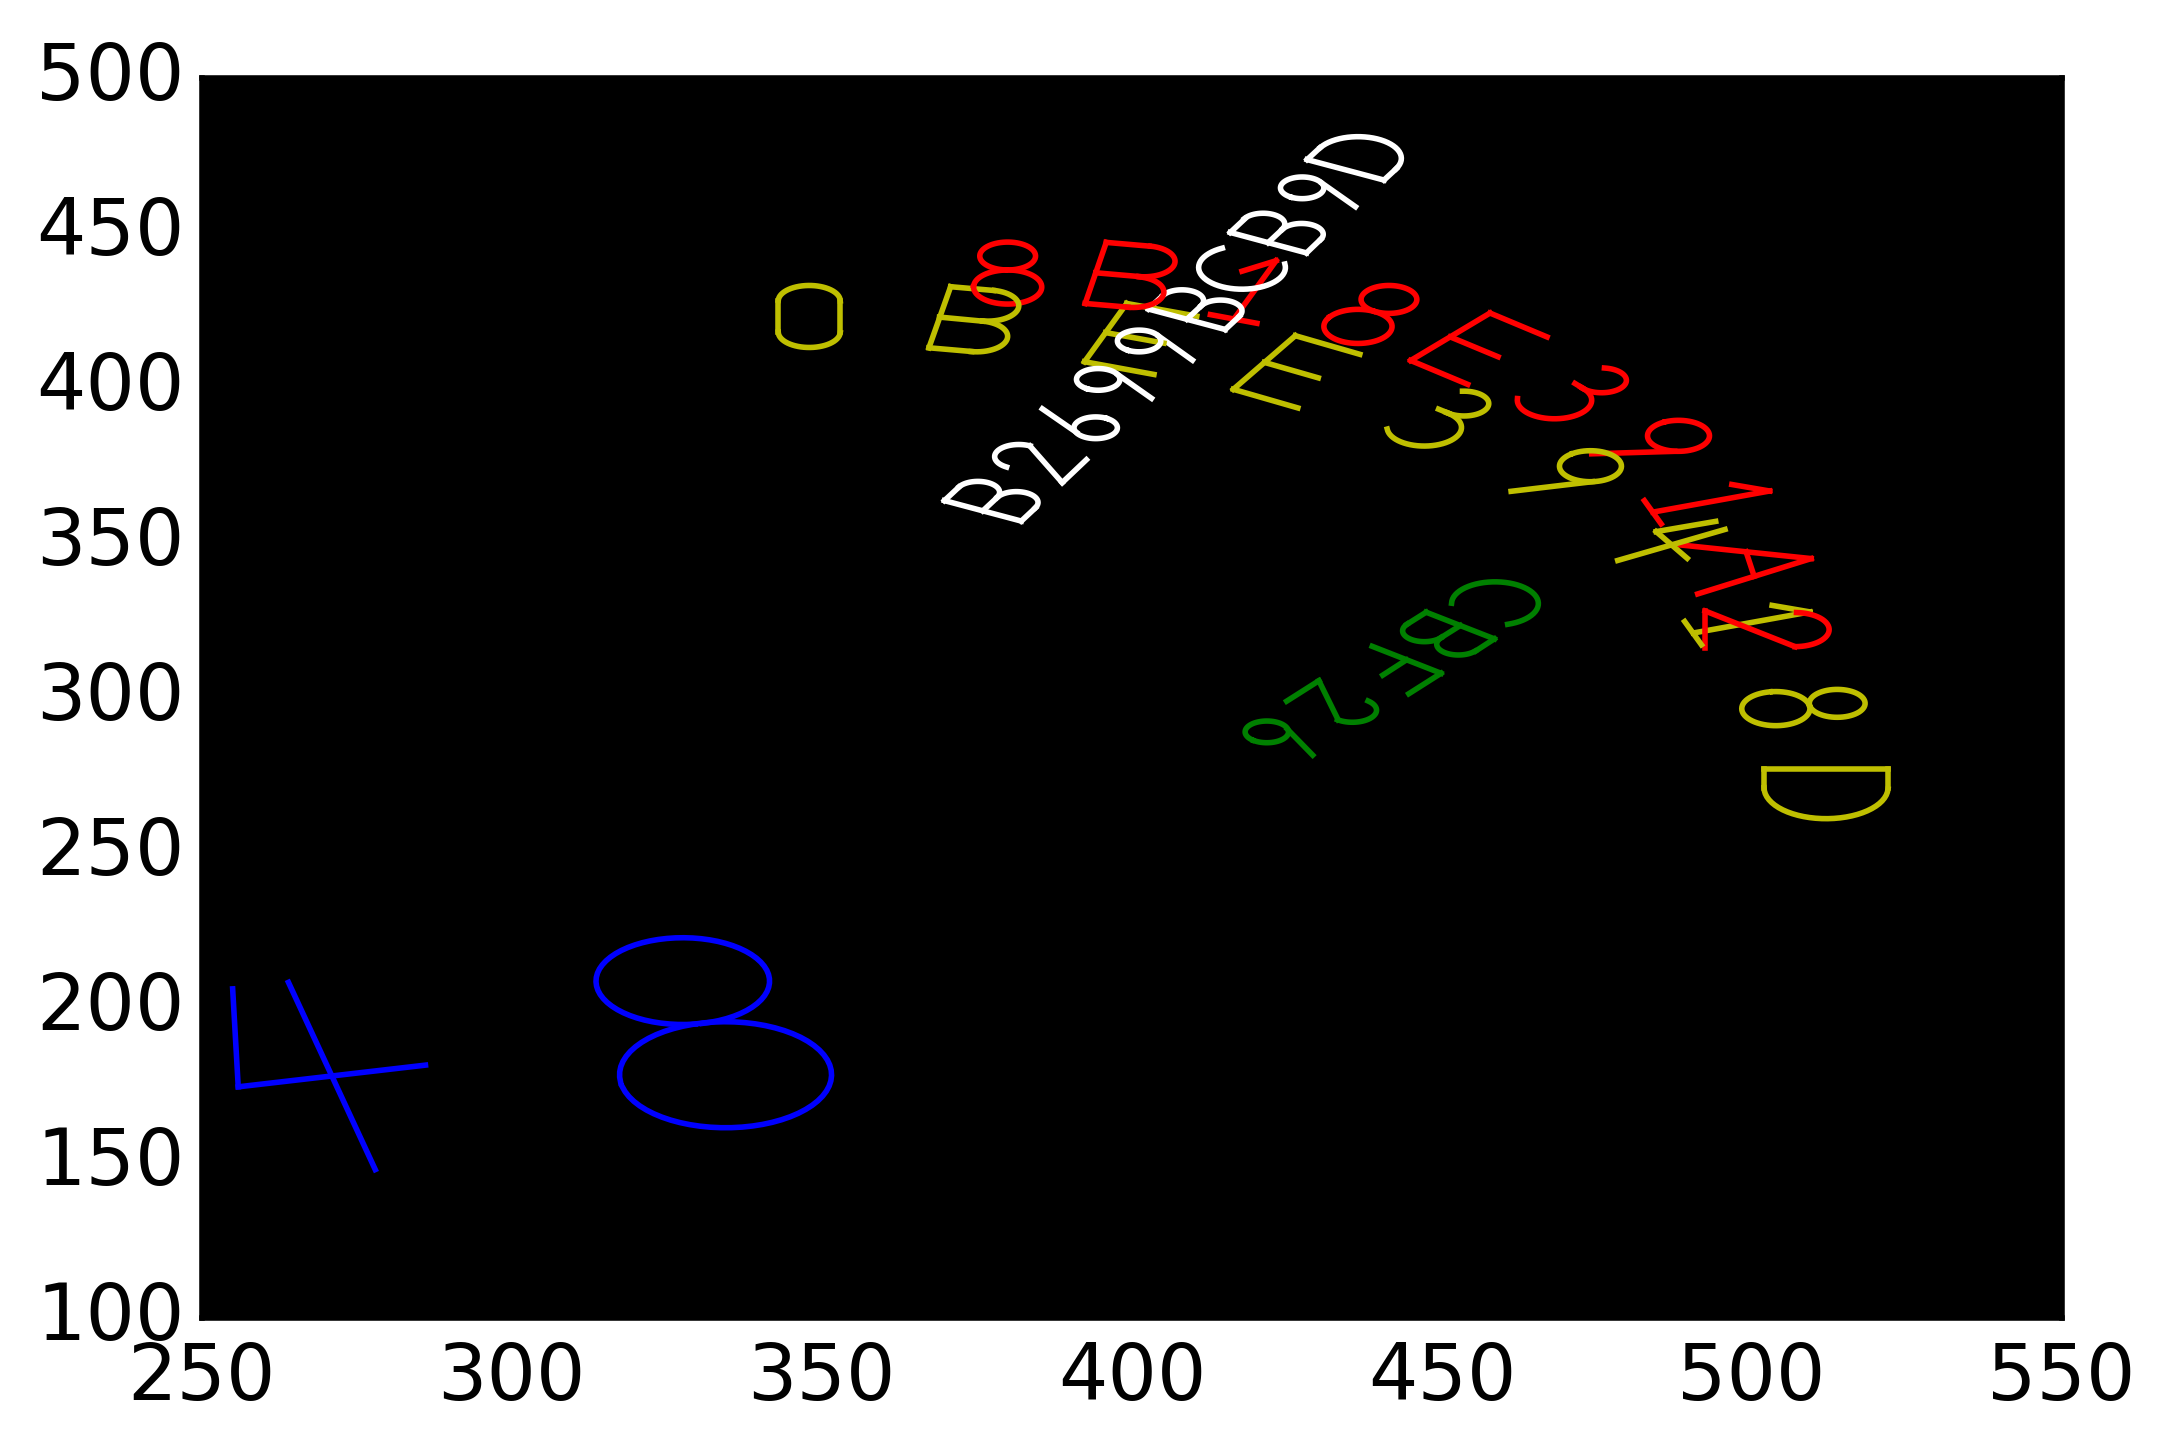
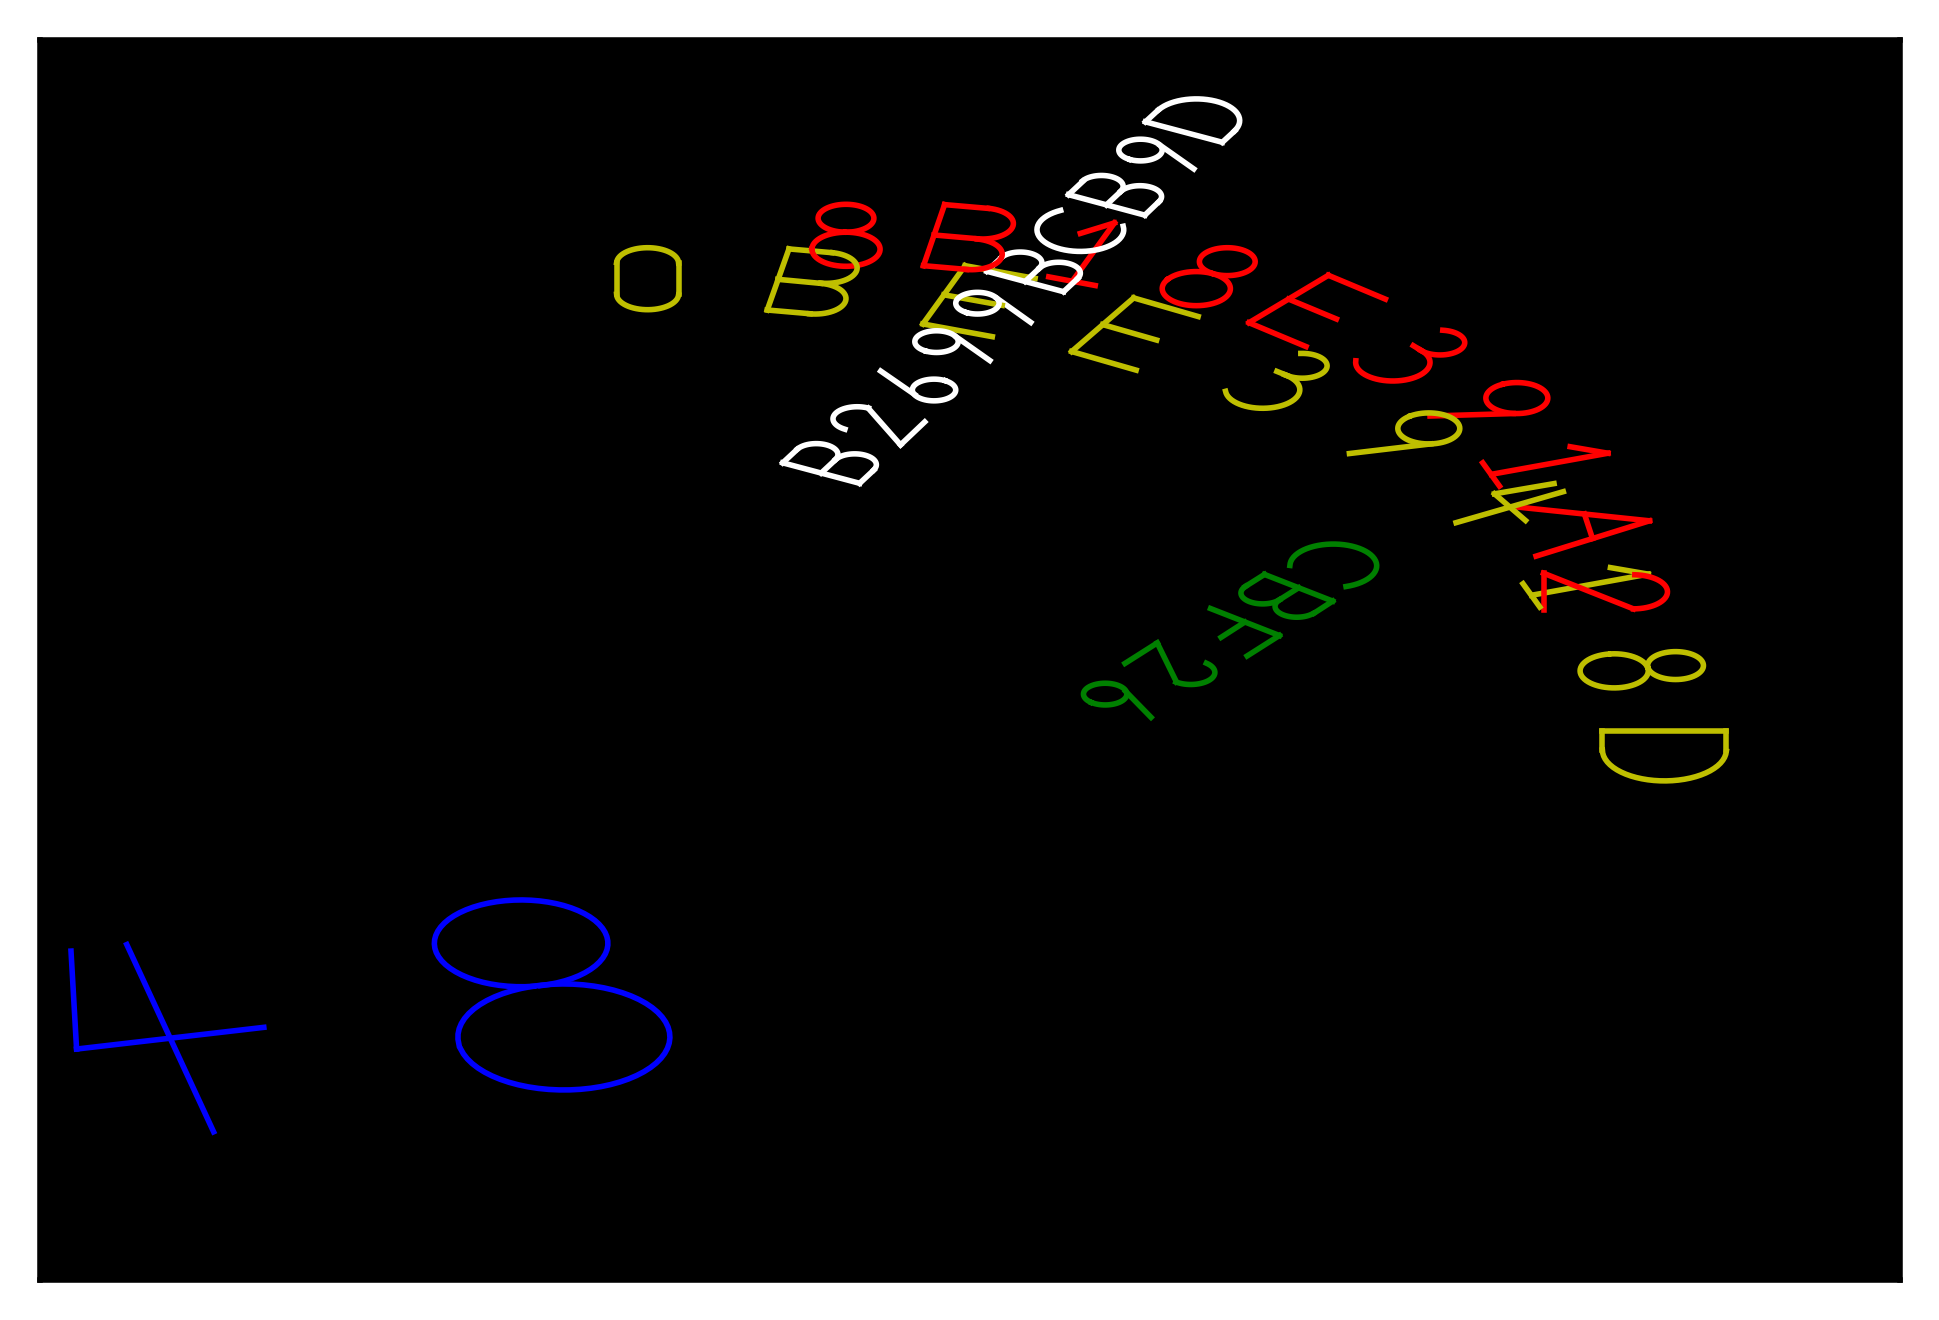
Remove labels

diff --git a/prog_missions/4/main.py b/prog_missions/4/main.py
@@ -107,6 +107,9 @@ if __name__ == '__main__':
         x_ = stuff[:,0]+arcs[i,0]
         y_ = stuff[:,1]+arcs[i,1]
         ax.plot(x_,y_,color = c_arcs[i])
-
+    
+    # Remove labels
+    plt.setp( ax.get_xticklabels(), visible=False)
+    plt.setp( ax.get_yticklabels(), visible=False)
     plt.savefig('done.png',dpi=400,bbox_inches='tight')
     plt.show()
